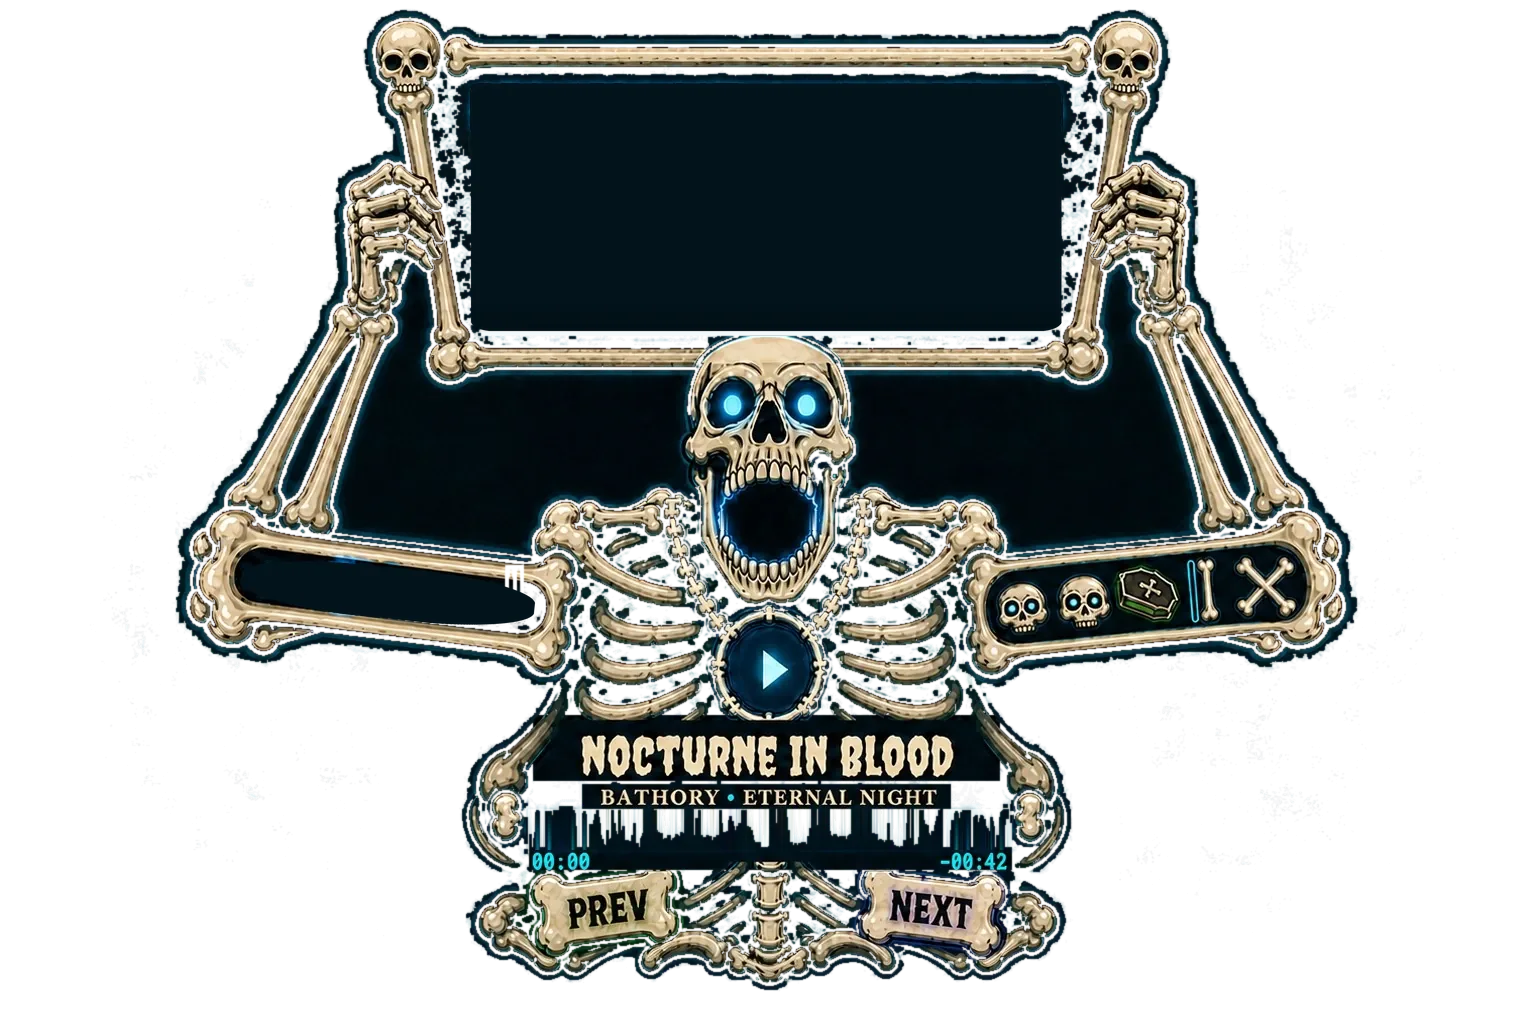
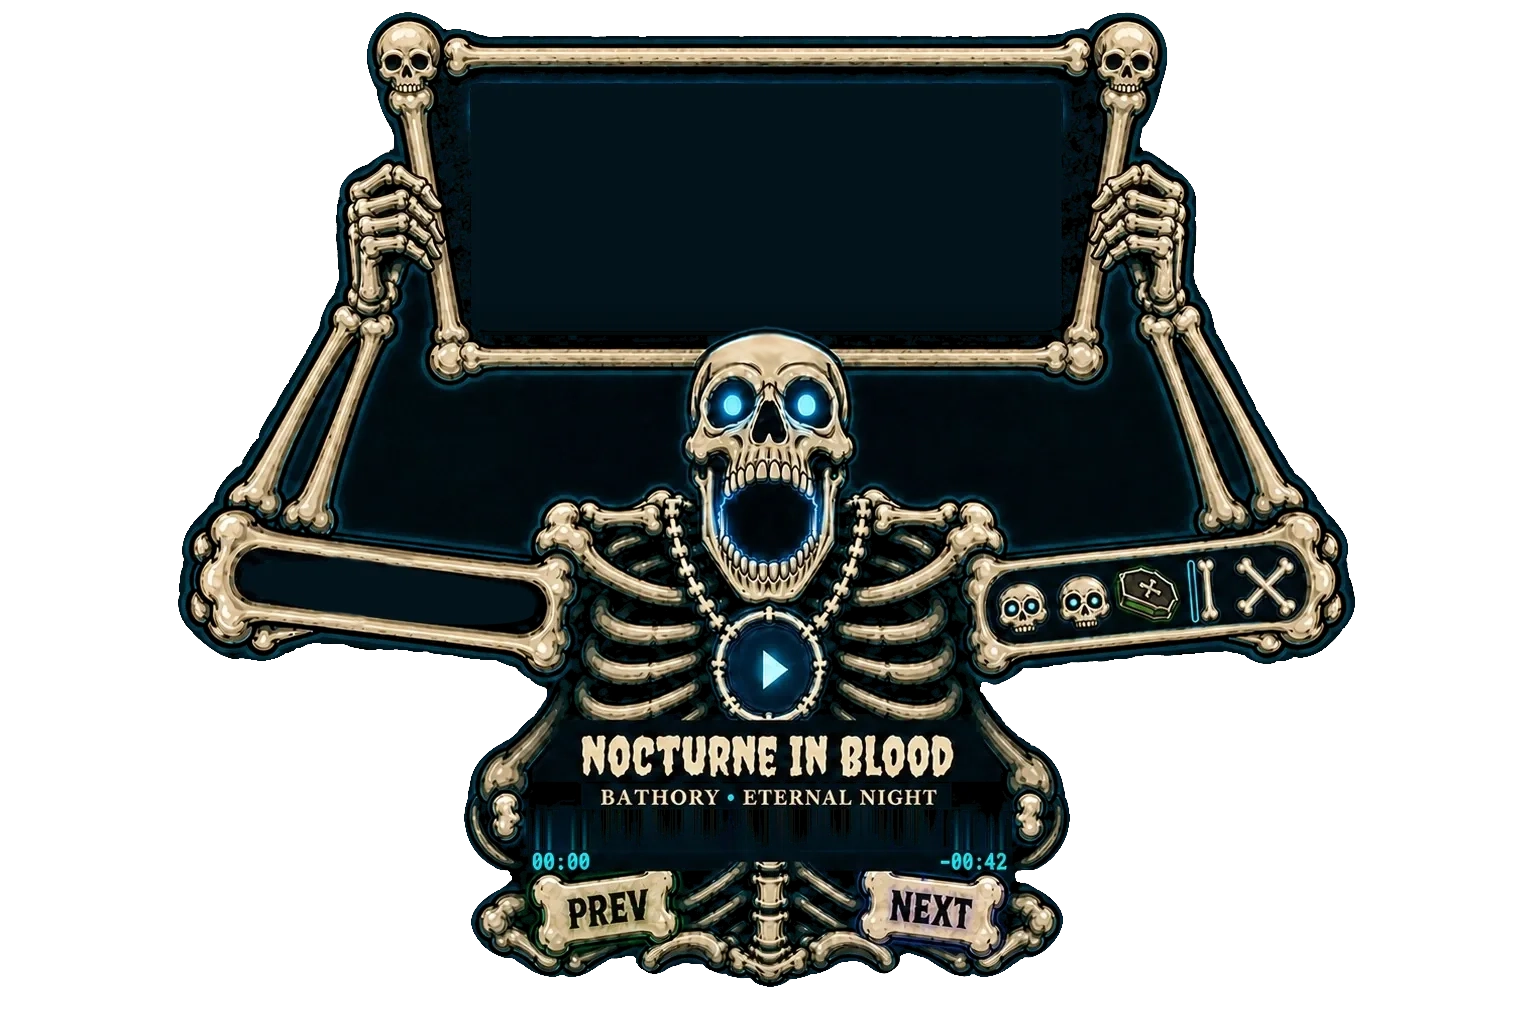
feat(skeleton): remove title from mini card and adjust dimensions
- Remove track title display from mini card (.sk-mini-info and .sk-mini-track elements)
- Reduce mini card height from 390px to 351px (340×351) for tighter layout
- Update mini card spacing: 20px transparent margin above face, 10px below
- Remove miniTrack element reference from SkeletonEls interface
- Remove track title updates in onTrackChange handler
- Simplify mini player to focus on visual controls and equalizer
- Update documentation to reflect mini card feature set

Changed region(s): [[0.1226, 0.0, 0.8885, 0.9678], [0.2145, 0.0312, 0.2451, 0.0624]]

diff --git a/src/renderer/skins/SkeletonSkin.ts b/src/renderer/skins/SkeletonSkin.ts
@@ -22,10 +22,10 @@
  *                               coffin → open folder, bar → minimize, X → close
  *   Mini card ───────────────── 620×622 face card: play over the pendant,
  *                               restore over the ribcage badge, close over
- *                               the bone X, mouth EQ, eye blooms, title
+ *                               the bone X, mouth EQ, eye blooms
  *
  * The mini card is the web build's mini player: the window shrinks to a
- * 340×390 card around the 620×622 face, with a transparent margin so the
+ * 340×351 card around the 620×622 face, with transparent margins so the
  * art is not cut by the window, and the shape is lifted so the card is a
  * plain rectangle while it is up.
  */
@@ -38,7 +38,7 @@ import type { Player } from '../player/Player'
 
 /** Full 3:2 stage and the 620:622 face card the window shrinks to. */
 const STAGE_SIZE = { width: 960, height: 640, minWidth: 560, minHeight: 380 }
-const MINI_SIZE = { width: 340, height: 390, minWidth: 340, minHeight: 390 }
+const MINI_SIZE = { width: 340, height: 351, minWidth: 340, minHeight: 351 }
 
 /** Spectrum resolution — the web build's teeth line draws 24 bars */
 const BAR_COUNT = 24
@@ -61,7 +61,6 @@ interface SkeletonEls {
   mute: HTMLButtonElement
   playlist: HTMLOListElement
   miniPlay: HTMLButtonElement
-  miniTrack: HTMLElement
   miniBars: HTMLElement[]
   miniEyes: HTMLElement[]
 }
@@ -209,9 +208,6 @@ export class SkeletonSkin implements Skin {
             <button class="sk-mini-restore" aria-label="Back to the full player" title="Back to the full player"></button>
             <button class="sk-mini-close" aria-label="Close player" title="Close player"></button>
           </div>
-          <div class="sk-mini-info">
-            <span class="sk-mini-track">—</span>
-          </div>
         </div>
       </div>
     `
@@ -237,7 +233,6 @@ export class SkeletonSkin implements Skin {
       mute: c.querySelector('.sk-mute')!,
       playlist: c.querySelector('.sk-list')!,
       miniPlay: c.querySelector('.sk-mini-play')!,
-      miniTrack: c.querySelector('.sk-mini-track')!,
       miniBars: Array.from(c.querySelectorAll<HTMLElement>('.sk-mini-eq i')),
       miniEyes: Array.from(c.querySelectorAll<HTMLElement>('.sk-mini-eye')),
     }
@@ -324,8 +319,6 @@ export class SkeletonSkin implements Skin {
     p.onTrackChange = (track, idx) => {
       els.track.textContent = track.title
       els.track.title = track.title
-      els.miniTrack.textContent = track.title
-      els.miniTrack.title = track.title
       this.setArtist(track.artist)
       this.activeIndex = idx
       this.highlightPlaylistItem(idx)

diff --git a/src/renderer/style.css b/src/renderer/style.css
@@ -1664,8 +1664,8 @@ input[type="range"]::-moz-range-thumb {
 .skeleton-skin .sk-tool:focus-visible .sk-tip { display: block; }
 
 /* Mini version = the web build's 620×622 face card. The window shrinks to
-   340×390: a 20px transparent margin above the 320×321 face and a title
-   strip below it. The card itself stays transparent. */
+   340×351: a 20px transparent margin above the 320×321 face and 10px below
+   it. The card itself stays transparent. */
 .skeleton-skin .sk-mini { display: none; }
 .skeleton-skin.mini-mode .sk-body { background: none; }
 .skeleton-skin.mini-mode .sk-body > :not(.sk-mini) { display: none; }
@@ -1770,28 +1770,3 @@ input[type="range"]::-moz-range-thumb {
 }
 .skeleton-skin .sk-mini-restore { left: 63%; top: 51.6%; width: 20%; height: 20%; }
 .skeleton-skin .sk-mini-close { left: 18.6%; top: 69%; width: 16%; height: 16%; }
-.skeleton-skin .sk-mini-info {
-  position: absolute;
-  left: 10px;
-  right: 10px;
-  top: 341px;
-  bottom: 10px;
-  display: flex;
-  align-items: center;
-  justify-content: center;
-  padding: 0 4px;
-  pointer-events: none;
-}
-.skeleton-skin .sk-mini-track {
-  display: block;
-  max-width: 100%;
-  color: #f2fbff;
-  font: bold 4cqw Georgia, "Times New Roman", serif;
-  letter-spacing: 0.04em;
-  text-align: center;
-  -webkit-text-stroke: 0.35px #000;
-  text-shadow: 0 0 2px #000, 0 0 3px #000, 0 1px 3px #000, 0 0 2.1875cqw #1ddfff88;
-  white-space: nowrap;
-  overflow: hidden;
-  text-overflow: ellipsis;
-}

diff --git a/docs/README.md b/docs/README.md
@@ -14,7 +14,7 @@ Every body part is meant to do real work. The table below lists the anatomy-to-c
 |---------|--------|---------|
 | 🧛 Dracula | flagship | medallion → play/pause · cape → visualizer · blood line → seek · jeweled minus/plus → volume · crossed hands → prev/next · tool row (on hover) → close / minimize / add files / next skin / mini bat |
 | ⚡ Frankenstein | functional | forehead EQ → visualizer · left eye → cursor-tracking readout · right eye → play/pause · neck bolts → prev/next · stitched scar → seek · gold watch → volume, tap or ϟ → mute · brass jacket pins → open folder / close / ☰ Tracks / mini / next skin · ☰ Tracks board → playlist |
-| 💀 Skeleton | functional | pendant → play/pause · jaw → visualizer · bone board → playlist · blood line → seek · left bone arm → volume, speaker → mute · bone plaques → prev/next · right bone icons → mini / change skin / add files / minimize / close · mini card → 620×622 face, play / restore / close, mouth EQ, title |
+| 💀 Skeleton | functional | pendant → play/pause · jaw → visualizer · bone board → playlist · blood line → seek · left bone arm → volume, speaker → mute · bone plaques → prev/next · right bone icons → mini / change skin / add files / minimize / close · mini card → 620×622 face, play / restore / close, mouth EQ |
 
 ---
 
